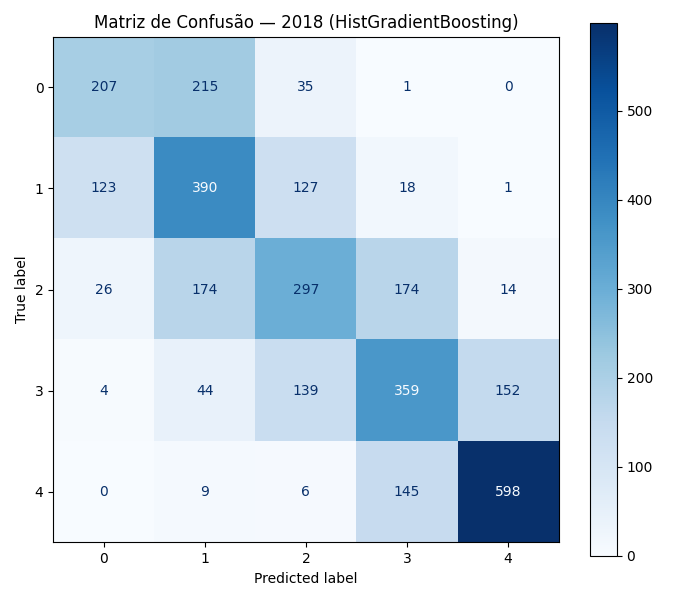
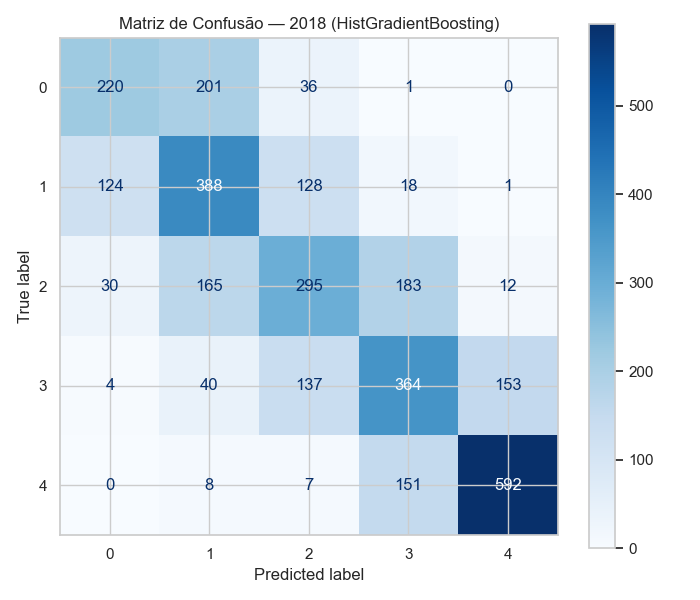
resolver problema de importação de caminho no notebook docs(report): atualizar métricas de desempenho do modelo e comparações

diff --git a/src/tools/fix_mojibake.py b/src/tools/fix_mojibake.py
@@ -1,0 +1,79 @@
+#!/usr/bin/env python3
+import json
+import shutil
+from pathlib import Path
+import argparse
+
+
+def main(args):
+    nb_path = Path(args.file)
+    if not nb_path.exists():
+        raise FileNotFoundError(f"Notebook não encontrado: {nb_path}")
+
+    backup_path = nb_path.with_suffix('.ipynb.bak')
+    print('Lendo notebook:', nb_path)
+    with open(nb_path, 'r', encoding='utf-8') as f:
+        data = json.load(f)
+
+    shutil.copy2(nb_path, backup_path)
+    print('Backup criado em:', backup_path)
+
+    changed_count = 0
+
+    moji_tokens = (
+        'Ã', 'Â', 'â€”', 'â€“', 'â€œ', 'â€˜', 'â€™', 'â€³', 'â€¢', 'â€¦', '�'
+    )
+    skip_keys = {'image/png', 'image/jpeg', 'image/svg+xml'}
+
+    def looks_mojibake(s: str) -> bool:
+        return any(tok in s for tok in moji_tokens)
+
+    def fix_once(s: str) -> str:
+        try:
+            return s.encode('latin-1', errors='ignore').decode('utf-8', errors='ignore')
+        except Exception:
+            return s
+
+    def fix_repeat(s: str) -> str:
+        nonlocal changed_count
+        prev = s
+        for _ in range(3):
+            new = fix_once(prev)
+            if new == prev:
+                break
+            prev = new
+        if prev != s:
+            changed_count += 1
+        return prev
+
+    def deep_fix(obj, path=()):
+        if isinstance(obj, str):
+            if path and path[-1] in skip_keys:
+                return obj
+            if looks_mojibake(obj):
+                return fix_repeat(obj)
+            return obj
+        if isinstance(obj, list):
+            return [deep_fix(v, path) for v in obj]
+        if isinstance(obj, dict):
+            return {k: deep_fix(v, path + (k,)) for k, v in obj.items()}
+        return obj
+
+    fixed = deep_fix(data)
+
+    with open(nb_path, 'w', encoding='utf-8') as f:
+        json.dump(fixed, f, ensure_ascii=False, indent=1)
+
+    print('Strings corrigidas:', changed_count)
+
+    with open(nb_path, 'r', encoding='utf-8') as f:
+        s = f.read()
+    residual = sum(s.count(tok) for tok in moji_tokens)
+    print('Resíduos de mojibake no arquivo:', residual)
+
+
+if __name__ == '__main__':
+    parser = argparse.ArgumentParser(description='Sanear caracteres mojibake em um notebook .ipynb')
+    parser.add_argument('--file', required=True, help='Caminho do notebook .ipynb')
+    args = parser.parse_args()
+    main(args)

diff --git a/src/relatorio_etapa4.md b/src/relatorio_etapa4.md
@@ -1,7 +1,7 @@
 # Etapa 4 — Construção de Modelos, Avaliação e Comparação
 
 ## Pré-processamento e Ajustes
-- Remoção de 'product_id' dos features para evitar vazamento por produto.
+- Remoção de "product_id" dos features para evitar vazamento por produto.
 - Codificação categórica via OneHotEncoder em colunas de menor cardinalidade: ['ship_mode','segment','country','state','region','category','sub_category'].
 - Imputação: categóricas por moda, numéricas por mediana.
 - Validação por produto com GroupKFold (n_splits=5).
@@ -14,58 +14,38 @@
 - Macro F1, com acurácia como métrica auxiliar.
 
 ### LogisticRegression
-- CV mean_acc = 0.4352 ± 0.0232
-- CV macro_f1 = 0.3921
-- Test 2018 acc = 0.432
+- CV mean_acc = 0.5550 ± 0.0104
+- CV macro_f1 = 0.5444
+- Test 2018 acc = 0.565
 - Classification Report (2018):
 ```
               precision    recall  f1-score   support
 
-           0       0.34      0.80      0.48       458
-           1       0.30      0.05      0.09       659
-           2       0.36      0.26      0.30       685
-           3       0.40      0.39      0.39       698
-           4       0.62      0.74      0.68       758
+           0       0.46      0.63      0.53       458
+           1       0.48      0.49      0.49       659
+           2       0.48      0.43      0.45       685
+           3       0.55      0.51      0.53       698
+           4       0.84      0.76      0.80       758
 
-    accuracy                           0.43      3258
-   macro avg       0.40      0.45      0.39      3258
-weighted avg       0.41      0.43      0.39      3258
-
-```
-
-### LogisticRegressionCW
-- CV mean_acc = 0.4276 ± 0.0186
-- CV macro_f1 = 0.3664
-- Test 2018 acc = 0.428
-- Classification Report (2018):
-```
-              precision    recall  f1-score   support
-
-           0       0.33      0.82      0.47       458
-           1       0.00      0.00      0.00       659
-           2       0.36      0.28      0.31       685
-           3       0.38      0.42      0.40       698
-           4       0.66      0.70      0.68       758
-
-    accuracy                           0.43      3258
-   macro avg       0.35      0.44      0.37      3258
-weighted avg       0.36      0.43      0.38      3258
+    accuracy                           0.57      3258
+   macro avg       0.56      0.57      0.56      3258
+weighted avg       0.58      0.57      0.57      3258
 
 ```
 
 ### HistGradientBoosting
-- CV mean_acc = 0.5679 ± 0.0145
-- CV macro_f1 = 0.5536
-- Test 2018 acc = 0.568
+- CV mean_acc = 0.5593 ± 0.0157
+- CV macro_f1 = 0.5455
+- Test 2018 acc = 0.571
 - Classification Report (2018):
 ```
               precision    recall  f1-score   support
 
-           0       0.57      0.45      0.51       458
-           1       0.47      0.59      0.52       659
+           0       0.58      0.48      0.53       458
+           1       0.48      0.59      0.53       659
            2       0.49      0.43      0.46       685
-           3       0.52      0.51      0.51       698
-           4       0.78      0.79      0.79       758
+           3       0.51      0.52      0.51       698
+           4       0.78      0.78      0.78       758
 
     accuracy                           0.57      3258
    macro avg       0.57      0.56      0.56      3258
@@ -74,8 +54,8 @@ weighted avg       0.57      0.57      0.57      3258
 ```
 
 ### RandomForestClassifier
-- CV mean_acc = 0.5310 ± 0.0159
-- CV macro_f1 = 0.5152
+- CV mean_acc = 0.5312 ± 0.0157
+- CV macro_f1 = 0.5154
 - Test 2018 acc = 0.538
 - Classification Report (2018):
 ```
@@ -89,36 +69,14 @@ weighted avg       0.57      0.57      0.57      3258
 
     accuracy                           0.54      3258
    macro avg       0.53      0.53      0.53      3258
-weighted avg       0.53      0.54      0.54      3258
-
-```
-
-### LogisticRegression_calibrada
-- CV mean_acc = 0.4276 ± 0.0186
-- CV macro_f1 = 0.3664
-- Test 2018 acc = 0.426
-- Classification Report (2018):
-```
-              precision    recall  f1-score   support
-
-           0       0.00      0.00      0.00       458
-           1       0.39      0.71      0.50       659
-           2       0.29      0.18      0.22       685
-           3       0.26      0.29      0.27       698
-           4       0.72      0.79      0.75       758
-
-    accuracy                           0.43      3258
-   macro avg       0.33      0.39      0.35      3258
-weighted avg       0.36      0.43      0.38      3258
+weighted avg       0.54      0.54      0.54      3258
 
 ```
 
 ## Comparação por Macro F1 (CV)
-1. HistGradientBoosting: macro_f1=0.5536
-2. RandomForestClassifier: macro_f1=0.5152
-3. LogisticRegression: macro_f1=0.3921
-4. LogisticRegressionCW: macro_f1=0.3664
-5. LogisticRegression_calibrada: macro_f1=0.3664
+1. HistGradientBoosting: macro_f1=0.5455
+2. LogisticRegression: macro_f1=0.5444
+3. RandomForestClassifier: macro_f1=0.5154
 
 ## Refinamento do Pipeline
 - Pipeline modular (pré-processamento + modelo), permitindo troca de algoritmos sem alterar etapas anteriores.
